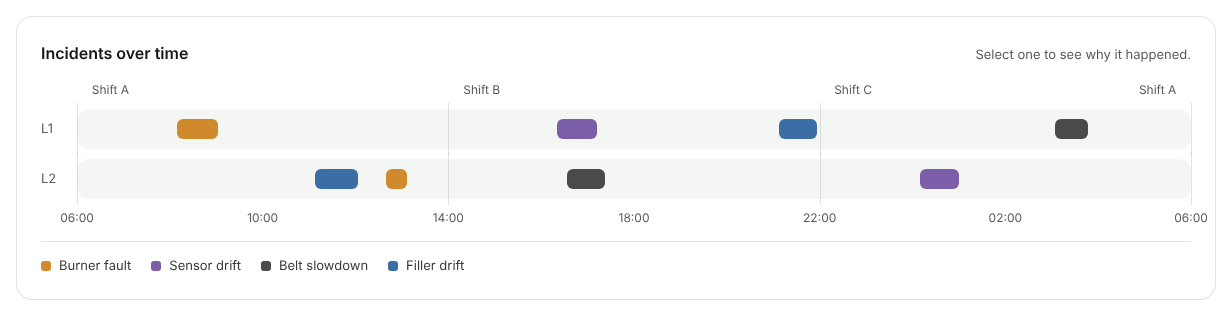
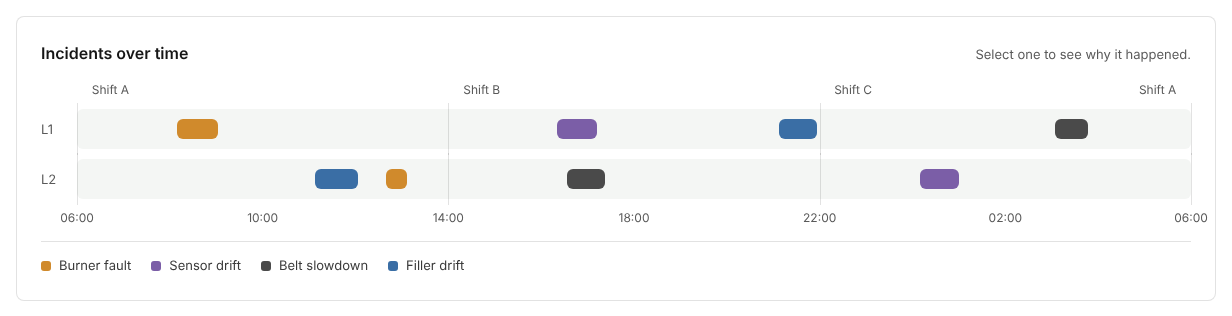
Use FGF's type and green
Headlines in Sorts Mill Goudy over Roboto body text, the closest
Google Fonts match to fgfbrands.com. FGF's leaf green (#8DBF55) is a
fill only, always with dark text, including the primary button with
its clipped corner; a darker green (#3F6E1E, 6.0:1 on white) carries
green text and links. Squarer corners to match.

Changed region(s): [[0.0308, 0.9399, 0.987, 0.9684]]

diff --git a/api/LinePulse.Api/wwwroot/index.html b/api/LinePulse.Api/wwwroot/index.html
@@ -6,7 +6,7 @@
 <title>LinePulse</title>
 <link rel="preconnect" href="https://fonts.googleapis.com">
 <link rel="preconnect" href="https://fonts.gstatic.com" crossorigin>
-<link href="https://fonts.googleapis.com/css2?family=Instrument+Sans:wght@400;500;600;700&display=swap" rel="stylesheet">
+<link href="https://fonts.googleapis.com/css2?family=Roboto:wght@400;500;700&family=Sorts+Mill+Goudy&display=swap" rel="stylesheet">
 <style>
   /* ---------- tokens: one place for every colour, size and curve ---------- */
   :root {
@@ -17,17 +17,19 @@
     --ink: #161616;          /* 17:1 on white */
     --ink-2: #3A3A3A;
     --ink-3: #5A5A5A;        /* smallest text; 6.9:1 on white, 6.3:1 on panel */
-    --accent: #1E6B45;       /* actions and healthy status only; 6.3:1 on white */
-    --accent-ink: #154D31;
-    --accent-soft: #E6F0EA;
+    --brand: #8DBF55;        /* FGF leaf green: fills only, always with dark text (8.9:1) */
+    --accent: #3F6E1E;       /* text-safe green for links, status, numbers; 6.0:1 on white */
+    --accent-ink: #2F5416;
+    --accent-soft: #EEF5E6;
     --warn-ink: #8A5A12;
     --bad: #B42318;
     --bad-soft: #FBEAE8;
     /* root causes: differ in hue and lightness */
     --burner: #D08A2C; --sensor: #7B5EA7; --filler: #3A6EA5; --belt: #4A4A4A;
     --series: #3A6EA5;
-    --radius: 16px; --radius-s: 12px;
-    --font: "Instrument Sans", system-ui, -apple-system, "Segoe UI", sans-serif;
+    --radius: 8px; --radius-s: 6px;
+    --font: "Roboto", system-ui, -apple-system, "Segoe UI", sans-serif;
+    --display: "Sorts Mill Goudy", Georgia, "Times New Roman", serif;   /* headlines only */
     --ease-out: cubic-bezier(0.23, 1, 0.32, 1);
     --ease-drawer: cubic-bezier(0.32, 0.72, 0, 1);
   }
@@ -44,7 +46,7 @@
   .shell { display: flex; min-height: 100vh; }
   .rail { flex: 0 0 76px; background: var(--panel); border-right: 1px solid var(--line); display: flex; flex-direction: column;
           align-items: center; gap: 8px; padding: 20px 0; position: sticky; top: 0; height: 100vh; }
-  .mark { width: 36px; height: 36px; border-radius: 10px; background: var(--accent); display: grid; place-items: center; margin-bottom: 16px; }
+  .mark { width: 36px; height: 36px; border-radius: 10px; background: var(--brand); display: grid; place-items: center; margin-bottom: 16px; }
   .rail a { width: 48px; height: 48px; border-radius: var(--radius-s); display: grid; place-items: center; color: var(--ink-3); text-decoration: none; }
   .rail a[aria-current="page"] { background: var(--page); color: var(--accent); border: 1px solid var(--line); }
   .rail a span { position: absolute; width: 1px; height: 1px; overflow: hidden; clip: rect(0 0 0 0); }
@@ -62,7 +64,7 @@
   .topbar .brand { font-size: 15px; font-weight: 600; color: var(--ink); }
   .topbar .right { margin-left: auto; display: flex; gap: 12px; align-items: center; flex-wrap: wrap; }
   .pill { display: inline-flex; align-items: center; gap: 8px; font-size: 13px; padding: 4px 12px; border-radius: 99px; border: 1px solid var(--line); color: var(--ink-2); }
-  .dot { width: 8px; height: 8px; border-radius: 50%; background: var(--accent); flex: none; }
+  .dot { width: 8px; height: 8px; border-radius: 50%; background: var(--brand); flex: none; }
   .snapshot { font-size: 14px; color: var(--ink-3); }
 
   /* ---------- building blocks ---------- */
@@ -78,7 +80,7 @@
   .grid-3 { display: grid; grid-template-columns: repeat(3, minmax(0, 1fr)); gap: 12px; }
   @media (max-width: 860px) { .grid-2 { grid-template-columns: 1fr; } }
   @media (max-width: 560px) { .grid-3 { grid-template-columns: 1fr; } }
-  .h1 { font-size: 44px; line-height: 1.1; font-weight: 600; letter-spacing: -0.02em; }
+  .h1 { font-family: var(--display); font-size: 48px; line-height: 1.1; font-weight: 400; letter-spacing: -0.01em; }
   .h1 em { font-style: normal; color: var(--accent); }
   .h1.attn em { color: var(--bad); }
   .lede { font-size: 16px; color: var(--ink-3); margin: 8px 0 0; max-width: 70ch; }
@@ -88,8 +90,10 @@
          border: 1px solid var(--line); background: var(--panel-2); color: var(--ink); min-height: 44px;
          transition: transform 160ms var(--ease-out), background-color 150ms ease; }
   .btn:active { transform: scale(0.97); }
-  .btn.primary { background: var(--accent); border-color: var(--accent); color: #FFFFFF; }
-  @media (hover: hover) and (pointer: fine) { .btn.primary:hover { background: var(--accent-ink); } .btn:hover { border-color: rgba(20,20,20,.3); } }
+  /* Primary action: FGF's green block with dark text and a clipped corner */
+  .btn.primary { background: var(--brand); border-color: var(--brand); color: var(--ink); border-radius: 0; text-transform: uppercase;
+                 letter-spacing: 0.04em; padding: 11px 28px; clip-path: polygon(0 0, 100% 0, 100% calc(100% - 12px), calc(100% - 12px) 100%, 0 100%); }
+  @media (hover: hover) and (pointer: fine) { .btn.primary:hover { background: #7DAF45; } .btn:hover { border-color: rgba(20,20,20,.3); } }
   .link { font: inherit; font-size: 14px; color: var(--accent); background: none; border: 0; padding: 8px 0; cursor: pointer; }
   .tabs { display: inline-flex; padding: 3px; border-radius: 10px; background: var(--panel); }
   .tabs button { font: inherit; font-size: 13px; color: var(--ink-3); background: none; border: 0; border-radius: 8px; padding: 6px 12px; cursor: pointer; min-height: 32px; }
@@ -126,7 +130,7 @@
   .bar .row { display: flex; justify-content: space-between; font-size: 14px; margin-bottom: 6px; }
   .bar .track { display: block; height: 8px; border-radius: 99px; background: var(--panel); }
   .bar .fill { display: block; height: 8px; border-radius: 99px; background: #9AA39D; }
-  .bar.agent .fill { background: var(--accent); }
+  .bar.agent .fill { background: var(--brand); }
 
   /* ---------- incidents ---------- */
   .split { display: flex; gap: 32px; align-items: flex-start; flex-wrap: wrap; }
@@ -138,7 +142,7 @@
   .list a .t { font-size: 13px; color: var(--ink-3); font-variant-numeric: tabular-nums; }
   .list a .w { font-size: 14px; }
   .list a .c { grid-column: 2; font-size: 13px; color: var(--ink-3); display: inline-flex; align-items: center; gap: 8px; }
-  .list a[aria-current="true"] { background: var(--accent-soft); border-color: rgba(30,107,69,.25); }
+  .list a[aria-current="true"] { background: var(--accent-soft); border-color: rgba(63,110,30,.25); }
   .list a[aria-current="true"] .w { font-weight: 600; }
   @media (hover: hover) and (pointer: fine) { .list a:hover { background: var(--panel); } }
   .back { display: none; }
@@ -151,9 +155,9 @@
   .diag { display: flex; flex-direction: column; gap: 18px; }
   .diag-top { display: flex; align-items: center; gap: 12px; flex-wrap: wrap; }
   .conf { font-size: 12px; padding: 3px 10px; border-radius: 99px; border: 1px solid var(--line); color: var(--ink-2); }
-  .conf.high { color: var(--accent); border-color: rgba(30,107,69,.35); }
+  .conf.high { color: var(--accent); border-color: rgba(63,110,30,.35); }
   .conf.low { color: var(--bad); }
-  .cause-name { font-size: 28px; font-weight: 600; letter-spacing: -0.015em; display: flex; align-items: center; gap: 12px; }
+  .cause-name { font-family: var(--display); font-size: 32px; font-weight: 400; display: flex; align-items: center; gap: 12px; }
   .cause-name .swatch { width: 14px; height: 14px; border-radius: 4px; }
   .summary { font-size: 16px; color: var(--ink-2); margin: 0; max-width: 64ch; }
   .tile b { font-size: 22px; }
@@ -221,7 +225,7 @@
 <body>
 <div class="shell">
   <nav class="rail" aria-label="Main">
-    <span class="mark" aria-hidden="true"><svg width="18" height="18" viewBox="0 0 24 24" fill="none" stroke="#FFFFFF" stroke-width="2.2" stroke-linecap="round"><path d="M2 12h4l3-7 4 14 3-7h6"/></svg></span>
+    <span class="mark" aria-hidden="true"><svg width="18" height="18" viewBox="0 0 24 24" fill="none" stroke="#161616" stroke-width="2.2" stroke-linecap="round"><path d="M2 12h4l3-7 4 14 3-7h6"/></svg></span>
     <a href="#overview" data-nav="overview"><svg width="20" height="20" viewBox="0 0 24 24" fill="none" stroke="currentColor" stroke-width="1.7" aria-hidden="true"><rect x="3" y="3" width="7" height="9" rx="1.5"/><rect x="14" y="3" width="7" height="5" rx="1.5"/><rect x="14" y="12" width="7" height="9" rx="1.5"/><rect x="3" y="16" width="7" height="5" rx="1.5"/></svg><span>Overview</span></a>
     <a href="#incidents" data-nav="incidents"><svg width="20" height="20" viewBox="0 0 24 24" fill="none" stroke="currentColor" stroke-width="1.7" aria-hidden="true"><circle cx="11" cy="11" r="7"/><path d="M20 20l-4-4"/></svg><span>Incidents</span></a>
     <a href="#shifts" data-nav="shifts"><svg width="20" height="20" viewBox="0 0 24 24" fill="none" stroke="currentColor" stroke-width="1.7" aria-hidden="true"><path d="M4 19V9M10 19V5M16 19v-7M22 19H2"/></svg><span>Shifts and signals</span></a>
@@ -713,7 +717,7 @@ async function drawChart() {
   host.insertAdjacentHTML("afterbegin", `<svg viewBox="0 0 ${W} ${H}" role="img" aria-label="${esc(line)} ${esc(name)} per-minute average">
     ${yt.map(y => `<line x1="${m.l}" x2="${W - m.r}" y1="${Y(y)}" y2="${Y(y)}" stroke="rgba(20,20,20,.08)"/><text x="${m.l - 8}" y="${Y(y) + 4}" text-anchor="end" font-size="12" fill="#5A5A5A">${fmt(y, step < 1 ? 1 : 0)}</text>`).join("")}
     ${xt.map(x => `<text x="${X(x)}" y="${H - 6}" text-anchor="middle" font-size="12" fill="#5A5A5A">${hm(new Date(x).toISOString())}</text>`).join("")}
-    <rect x="${m.l}" width="${W - m.l - m.r}" y="${Y(sp + thr)}" height="${Y(sp - thr) - Y(sp + thr)}" fill="rgba(30,107,69,.07)"/>
+    <rect x="${m.l}" width="${W - m.l - m.r}" y="${Y(sp + thr)}" height="${Y(sp - thr) - Y(sp + thr)}" fill="rgba(63,110,30,.07)"/>
     <line x1="${m.l}" x2="${W - m.r}" y1="${Y(sp)}" y2="${Y(sp)}" stroke="#5A5A5A" stroke-dasharray="4 4"/>
     <path d="${rows.map((r, i) => `${i ? "L" : "M"}${X(t[i]).toFixed(1)},${Y(r.mean_value).toFixed(1)}`).join("")}" fill="none" stroke="var(--series)" stroke-width="2" stroke-linejoin="round"/>
     ${rows.map((r, i) => r.over ? `<circle cx="${X(t[i])}" cy="${Y(r.mean_value)}" r="3" fill="var(--bad)"/>` : "").join("")}
